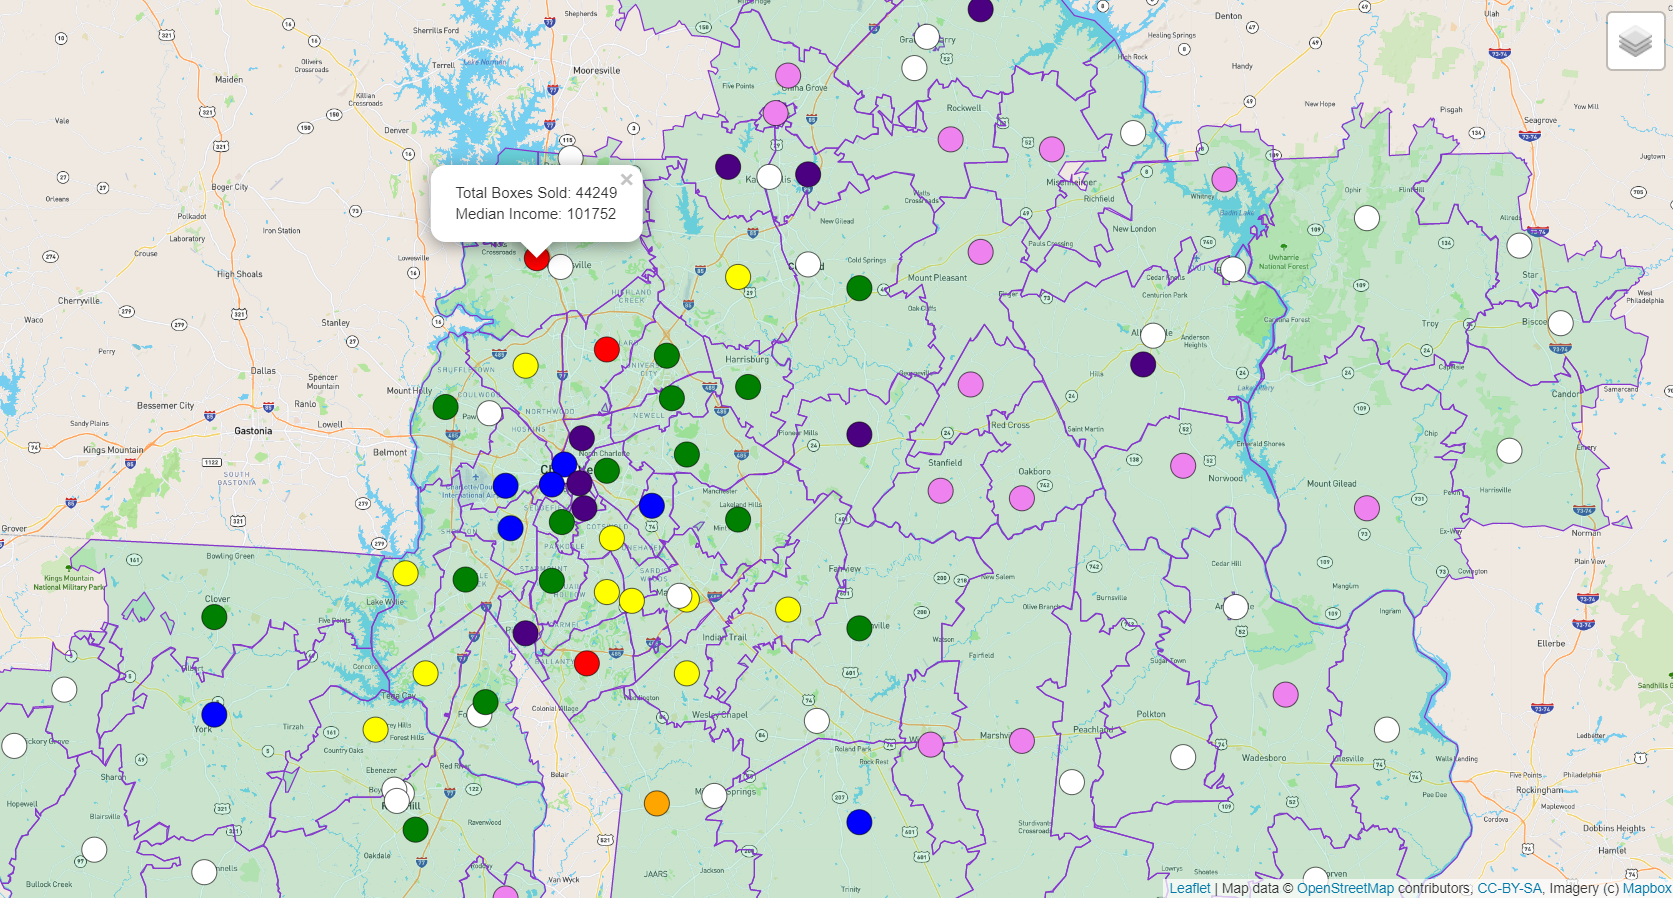
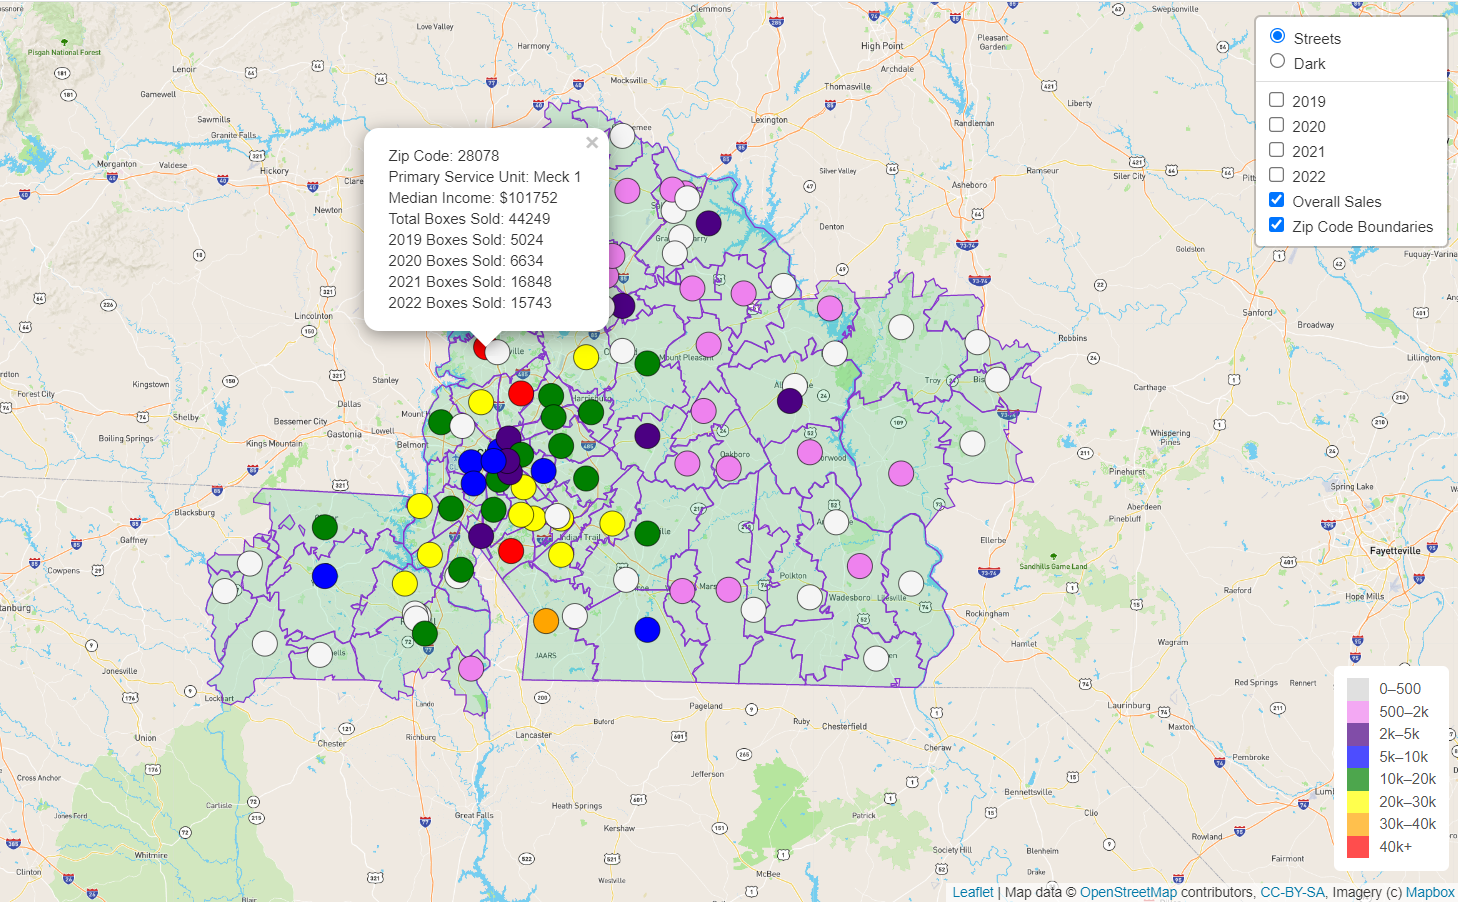
layers with legend

diff --git a/HTML/static/js/logic.js b/HTML/static/js/logic.js
@@ -109,7 +109,7 @@ d3.json("https://raw.githubusercontent.com/catsdata/catsdata.github.io/main/temp
     if (allsales >= 500) {
       return "#ee82ee";
     }
-    return "#ffffff"
+    return "#f5f5f5"
   };
 
   L.geoJson(data, {
@@ -144,16 +144,16 @@ let legend = L.control({
 legend.onAdd = function() {
   let div = L.DomUtil.create("div", "info legend");
 
-  const sales = ['40k', '30k', '20k', '10k', '5k', '2k', '500', '<500'];
+  const sales = ['0', '500', '2k', '5k', '10k', '20k', '30k', '40k'];
   const colors = [
-    "#ff0000",
-    "#ffa500",
-    "#ffff00",
-    "#008000",
-    "#0000ff",
-    "#4b0082",
+    "#D3D3D3",
     "#ee82ee",
-    "#ffffff"
+    "#4b0082",
+    "#0000ff",
+    "#008000",
+    "#ffff00",
+    "#ffa500",
+    "#ff0000"
   ];
 
   for (var i = 0; i < sales.length; i++) {
